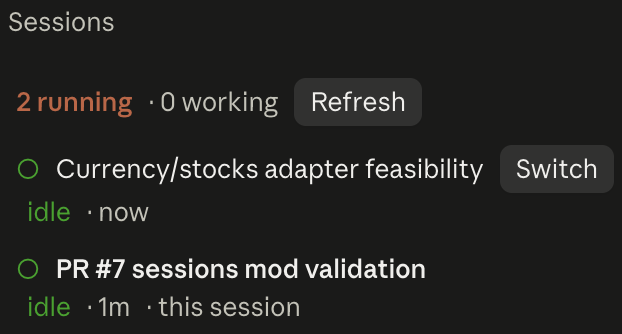
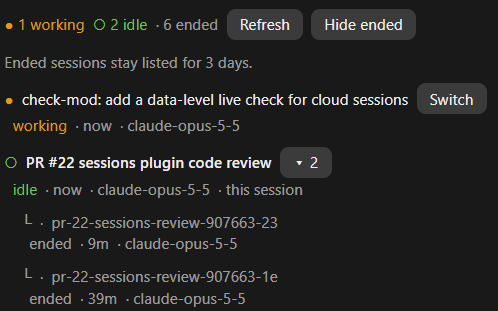
docs: update the sessions screenshot for the legend header
The old screenshot showed the "N running · N working" header. The new
one shows the header as a legend in the row colors, a folded parent and
ended sessions. It is a 1x capture, so the README shows it at width 400.

diff --git a/README.md b/README.md
@@ -103,7 +103,7 @@ Limits:
 ## sessions
 
 <table><tr>
-<td valign="top"><img src="docs/sessions.png" width="311" alt="sessions: the Sessions side pane with two running sessions and a Switch button"></td>
+<td valign="top"><img src="docs/sessions.png" width="400" alt="sessions: the Sessions side pane, its header counting 1 working, 2 idle and 6 ended sessions, with a Switch button and two ended sessions under their parent"></td>
 <td valign="top"><img src="docs/sessions-nesting.png" width="347" alt="sessions: a session with two spawned children indented under it, each row naming its model"></td>
 </tr></table>
 
